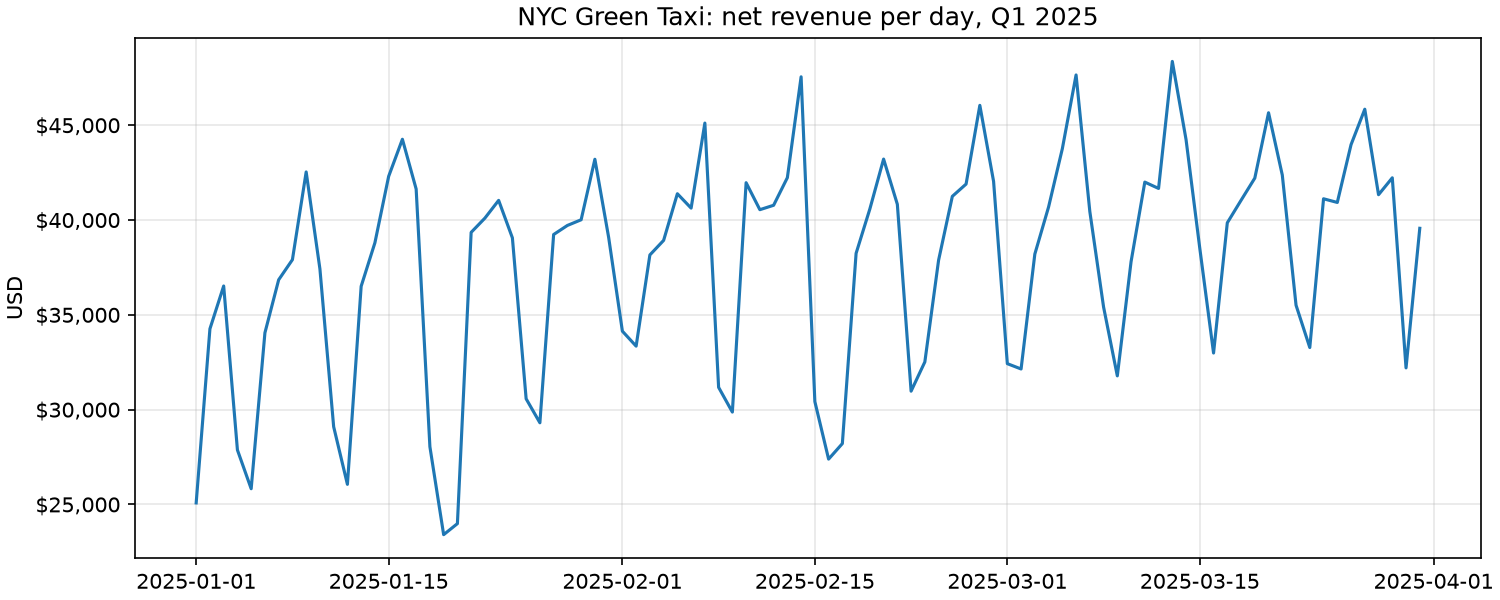
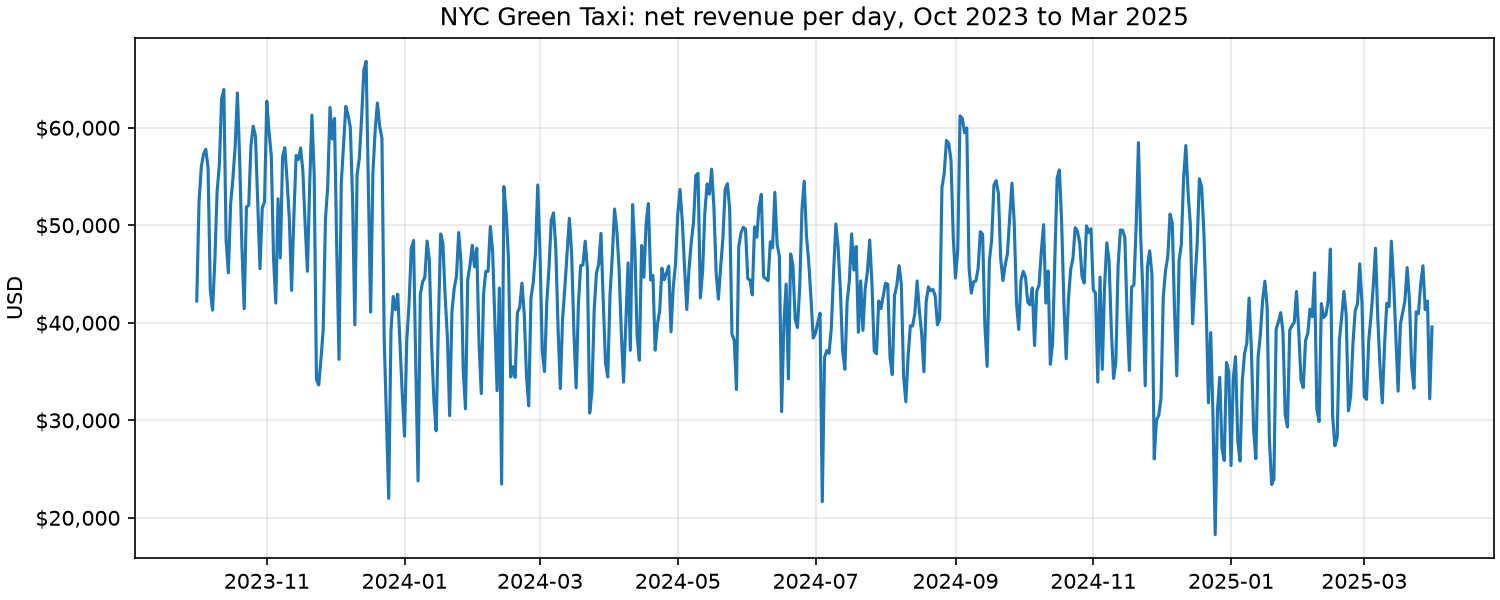
Lead the README with the congestion pricing findings
Question, answer, chart and the before/after table at the top, with
the seasonal baseline and its limits. Course answers move to course/.
PORTFOLIO.md lists what must change before the repo can go public.

diff --git a/README.md b/README.md
@@ -1,12 +1,44 @@
-# NYC Green Taxi: daily revenue pipeline
+# NYC Green Taxi: did congestion pricing change trips and revenue?
 
 [![CI](https://github.com/sean-mas/mle-data-pipeline-project/actions/workflows/ci.yml/badge.svg)](https://github.com/sean-mas/mle-data-pipeline-project/actions/workflows/ci.yml)
 
-An **ELT pipeline**, orchestrated with **Prefect**, that downloads the NYC Green Taxi trip records for January to March 2025, loads them unchanged into Postgres, and uses dbt to calculate revenue per day. It's the Spiced/neuefische data pipeline project; the original brief is in [course/project-brief.md](course/project-brief.md).
+An **ELT pipeline**, orchestrated with **Prefect**, that downloads 18 months of NYC Green Taxi trip records (October 2023 to March 2025), loads them unchanged into Postgres, and uses **dbt** to calculate revenue per day and answer one question about it.
 
-**Result:** 146,486 trip records → 146,475 in the period → **90 days**, net revenue **$3,395,290.56** (gross $3,401,753.17, refunds −$6,462.61). Every step is tested, and running the pipeline twice gives the same numbers.
+It started as the final project of the Spiced Academy (neuefische) data pipeline course, which asked for daily revenue for January to March 2025 ([brief](course/project-brief.md)), and was then extended to answer a real question.
 
-![Net revenue per day](assets/daily_revenue.png)
+## Findings
+
+**Question:** On 5 January 2025, New York started congestion pricing: taxi passengers pay $0.75 per trip into Manhattan below 60th Street. Did it change Green Taxi trips and revenue?
+
+**Answer: no sign that it did.** After 5 January, weekday trips fell 3.6% and fare revenue per day fell 10.6%. But over the same dates one year earlier, with no fee, they fell even more: −10.5% and −17.3%. The drop is the usual winter dip after the holidays. Revenue per trip moved just as it did the year before (−7.3% against −7.6%). About 1 in 12 weekday trips (8.3%) paid the fee.
+
+![Weekday trips and fare revenue, winter 2024/25 with congestion pricing against winter 2023/24 without](assets/congestion_pricing.png)
+
+Weekdays (Monday to Friday). "Before" is 1 October 2024 to 4 January 2025, "after" is 5 January to 31 March 2025. The last column splits the winter before on 5 January 2024 in the same way.
+
+| Weekdays | Before | After | Change | Change a year earlier, no fee |
+|---|---:|---:|---:|---:|
+| Trips per day | 1,834 | 1,768 | −3.6% | −10.5% |
+| Fare revenue per day (fare + extras + tips) | $40,022 | $35,767 | −10.6% | −17.3% |
+| Net revenue per day (`total_amount`) | $44,481 | $40,706 | −8.5% | −16.7% |
+| Fare revenue per trip | $21.82 | $20.23 | −7.3% | −7.6% |
+| Share of trips charged the fee | 0% | 8.3% | | 0% |
+
+Weekends show the same pattern: trips −12.6% against −14.4% a year earlier, and 9.2% of trips paid the fee.
+
+**How to read it**
+
+- **Why compare with the year before?** Taxi demand always drops after the holidays. A plain before/after comparison would blame the fee for that dip. Splitting the winter before on the same date shows how big the normal dip is, so the fee's effect is the *difference* between the two changes. (Analysts call this a difference-in-differences.)
+- **Why weekdays apart from weekends?** They have different trip patterns, and the before and after periods don't hold the same mix of them.
+- **Why two revenue measures?** `total_amount` includes taxes, tolls and surcharges that are passed on to the city, the state and the MTA, now including the $0.75 fee itself. `fare_revenue` (fare + extras + tips) is what the driver and the taxi company keep, so the fee can't inflate it.
+
+**Limits**
+
+- Two winters are a small sample, and other things changed between them. Green Taxi weekday trips were already 17% lower than a year earlier *before* the fee, because the fleet keeps shrinking. The weather differs, and holidays fall on different weekdays. So the smaller dip in 2024/25 can't be credited to the fee either.
+- Green Taxis can't pick up street hails in Manhattan below West 110th and East 96th Street, so most of their trips never enter the zone. A small effect was the likely outcome.
+- This covers Green Taxis only. It says nothing about yellow cabs or ride-hailing apps.
+
+The numbers come from `marts.fct_congestion_pricing_impact` ([SQL](dbt/models/marts/fct_congestion_pricing_impact.sql)). Every run writes them to `data/processed/congestion_pricing_comparison.csv` and redraws the chart.
 
 ## How it works
 
@@ -17,22 +49,23 @@ flowchart LR
         E["Extract<br/>extract.py"] --> L["Load<br/>load.py"] --> T["Transform<br/>dbt build"] --> R["Report<br/>report.py"]
     end
     TLC(["NYC TLC<br/>Parquet files"]) --> E
-    E -.-> RAW[/"data/raw/<br/>3 files, never edited"/]
+    E -.-> RAW[/"data/raw/<br/>18 files, never edited"/]
     L -.-> PG[("Postgres<br/>raw.green_trips")]
     T -.-> STG[("staging.stg_green_trips<br/>view")]
-    T -.-> MART[("marts.fct_daily_revenue<br/>table, 90 rows")]
+    T -.-> MART[("marts.fct_daily_revenue<br/>table, 548 rows")]
+    T -.-> IMPACT[("marts.fct_congestion_pricing_impact<br/>table, 8 rows")]
     R -.-> OUT[/"data/processed/<br/>CSV · Parquet · PNG · JSON"/]
 ```
 
 | Step | What happens | Where |
 |---|---|---|
 | 1. Extract | Downloads one Parquet file per month into `data/raw/`. Files already there are reused; an interrupted download is never mistaken for a finished one. | [extract.py](src/green_taxi/extract.py) |
-| 2. Load | Copies each file unchanged into `raw.green_trips`, plus `source_file` and `loaded_at`. One transaction per file deletes that file's old rows first, so re-runs never duplicate data. | [load.py](src/green_taxi/load.py) |
-| 3. Transform | dbt builds a staging view (renamed, typed, Q1 2025 only, refunds flagged) and the daily revenue table, then runs 15 data tests. A failing test stops the pipeline. | [dbt/models/](dbt/models/) |
-| 4. Report | Counts rows at every stage and writes the result as CSV, Parquet, a chart and `quality_report.json`. | [report.py](src/green_taxi/report.py) |
-| Orchestrate | The same functions as Prefect tasks: parallel downloads with 3 retries, every dbt model and test as its own task, and the result table plus a row-count report in the Prefect UI. A `monthly` deployment runs on a schedule or from a Run button. | [flow.py](src/green_taxi/flow.py) |
+| 2. Load | Copies each file unchanged into `raw.green_trips`, plus `source_file` and `loaded_at`. The table has a fixed column list, so files with and without the 2025 fee column fit into it. One transaction per file deletes that file's old rows first, so re-runs never duplicate data. | [load.py](src/green_taxi/load.py) |
+| 3. Transform | dbt builds a staging view (renamed, typed, only the chosen months, refunds flagged), the daily revenue table and the congestion pricing comparison, then runs 34 data tests. A failing test stops the pipeline. The months on the command line set the period dbt keeps. | [dbt/](dbt/) |
+| 4. Report | Counts rows at every stage and writes the results as CSV, Parquet, two charts and `quality_report.json`. | [report.py](src/green_taxi/report.py) |
+| Orchestrate | The same functions as Prefect tasks: parallel downloads with 3 retries, every dbt model and test as its own task, and the daily table, the congestion pricing comparison and a row-count report in the Prefect UI. A `monthly` deployment runs on a schedule or from a Run button. | [flow.py](src/green_taxi/flow.py) |
 
-![Prefect flow run](assets/prefect_flow_run.jpg)
+![Prefect flow run (an earlier three-month run)](assets/prefect_flow_run.jpg)
 
 ### Why ELT and not ETL
 
@@ -41,16 +74,16 @@ flowchart LR
 
 This pipeline uses ELT because:
 - The raw copy in Postgres stays untouched, so a cleaning rule can change and be re-run in SQL without downloading again.
-- dbt splits the SQL into layers (raw → staging → mart) and tests each one. This is how analytics teams usually work.
+- dbt splits the SQL into layers (raw → staging → marts) and tests each one. This is how analytics teams usually work.
 - Every row can be traced back to its source file.
 
 ## What the data needed
 
-Findings from [notebooks/01_explore_green_taxi.ipynb](notebooks/01_explore_green_taxi.ipynb), and the rule each one led to:
+Findings from exploring January to March 2025 in [notebooks/01_explore_green_taxi.ipynb](notebooks/01_explore_green_taxi.ipynb), and the rule each one led to:
 
 | Finding | Rule |
 |---|---|
-| 11 trips are dated outside Jan 1 to Mar 31, 2025 (some in December 2024, some on April 1) | Keep only pickups in the period, so the result has exactly 90 days. Without this rule there would be 94 |
+| 11 trips are dated outside Jan 1 to Mar 31, 2025 (some in December 2024, some on April 1) | Keep only pickups in the period, so the result has exactly one row per day |
 | 62 more trips sit in a neighbouring month's file (e.g. a Jan 31 trip in the February file) | Group by pickup date across all files, not per file |
 | 478 rows have a negative `total_amount` (refunds, disputes, voids), −$6,462.61 in total | Count them apart from trips: `gross_revenue`, `refunds`, `net_revenue` |
 | 254 trips have a `total_amount` of $0 | Count them as trips with no revenue |
@@ -58,39 +91,60 @@ Findings from [notebooks/01_explore_green_taxi.ipynb](notebooks/01_explore_green
 | 2 trips are over $500 (max $642.14) | Keep them, and list them in the quality report |
 | No duplicate rows | No deduplication step |
 
-**Revenue definition:** `net_revenue` for a day is the sum of `total_amount` (fare, extras, taxes, tip, tolls and surcharges) for trips picked up that day, refunds included.
+Extending the window to 18 months for the congestion pricing question added these:
+
+| Finding | Rule |
+|---|---|
+| Files before 2025 have no `cbd_congestion_fee` column; all other columns and types match across the 18 files | Create the raw table from a fixed column list. A missing column loads as NULL; an unknown column stops the load, so a new TLC column is a decision, not a surprise |
+| The fee appears only from 5 January 2025: 11,986 trips at $0.75, one refund at −$0.75 | A dbt test fails if any earlier trip has the fee |
+| The amount columns don't always add up to `total_amount` (about 14% of rows, most of them a $1.00 gap in one vendor's MTA tax) | Build `fare_revenue` from its own three columns instead of subtracting taxes from the total |
+| Over 18 months: 17 trips dated outside the period, 3,235 refund rows (−$43,198.42), 53 trips over $500 (max $3,527.30) | Same rules as above; the large trips are listed in `quality_report.json` |
+
+**Revenue definitions:** for each pickup day, `net_revenue` is the sum of `total_amount` (fare, extras, taxes, tip, tolls and surcharges), and `fare_revenue` is the sum of fare + extras + tip. Both include refunds.
 
 ## Results
 
-| Month | Days | Trips | Net revenue |
-|---|---:|---:|---:|
-| January 2025 | 31 | 48,136 | $1,092,994.80 |
-| February 2025 | 28 | 46,479 | $1,067,222.12 |
-| March 2025 | 31 | 51,382 | $1,235,073.64 |
-| **Total** | **90** | **145,997** | **$3,395,290.56** |
+1,001,121 trip records → 1,001,104 in the period → **548 days**, net revenue **$24,157,147.48** (gross $24,200,345.90, refunds −$43,198.42), fare revenue **$21,714,266.83**. Every step is tested, and running the pipeline twice gives the same numbers.
 
-- Average day: $37,725. Busiest day: Thursday, March 13 ($48,362). Quietest: Sunday, January 19 ($23,401).
-- Weekdays earn more than weekends: Thursdays average $43,454, Sundays $30,005.
+| Quarter | Days | Trips | Net revenue | Fare revenue |
+|---|---:|---:|---:|---:|
+| Q4 2023 | 92 | 193,830 | $4,741,915.10 | $4,286,582.36 |
+| Q1 2024 | 91 | 167,027 | $3,795,657.09 | $3,407,243.78 |
+| Q2 2024 | 91 | 171,594 | $4,179,453.14 | $3,762,259.36 |
+| Q3 2024 | 92 | 157,524 | $4,080,442.06 | $3,691,650.57 |
+| Q4 2024 | 92 | 161,886 | $3,964,117.01 | $3,571,513.12 |
+| Q1 2025 | 90 | 146,008 | $3,395,563.08 | $2,995,017.64 |
+| **Total** | **548** | **997,869** | **$24,157,147.48** | **$21,714,266.83** |
+
+Q1 2025 is $272.52 (11 trips) higher than the course result of $3,395,290.56: those January trips sit in the December 2024 file, which the course run didn't load.
+
+![Net revenue per day](assets/daily_revenue.png)
 
 ## Project structure
 
 ```
 ├── data/raw/                 # staged downloads (not in git)
-├── data/processed/           # daily revenue outputs (not in git)
-├── dbt/                      # transform layer: staging and mart models, tests
+├── data/processed/           # outputs (not in git)
+├── dbt/
+│   ├── models/staging/       # stg_green_trips: renamed, typed, filtered to the period
+│   ├── models/marts/         # fct_daily_revenue, fct_congestion_pricing_impact
+│   ├── seeds/                # congestion_pricing_windows.csv: the two winters compared
+│   └── tests/                # reconciliation and fee checks
 ├── notebooks/                # exploration only, not part of the pipeline
 ├── src/green_taxi/
-│   ├── config.py             # months, source URL, paths, database settings
+│   ├── config.py             # default months, source URL, paths, database settings
+│   ├── months.py             # --months parsing and the period dbt keeps
 │   ├── extract.py            # step 1
 │   ├── load.py               # step 2
 │   ├── transform.py          # step 3 (runs dbt)
 │   ├── report.py             # step 4
 │   ├── pipeline.py           # plain CLI: green-taxi download | load | transform | report | run
 │   └── flow.py               # Prefect flow and deployment
-├── tests/                    # unit tests (extract) and integration tests (load, end to end)
+├── tests/                    # unit tests (extract, months, CLI) and integration tests (load, end to end)
 ├── docker-compose.yaml       # Postgres 17 on port 5433
-├── course/                   # original project brief
-└── solution/                 # the course's ETL reference solution, untouched
+├── course/                   # original project brief and the course answers
+├── solution/                 # the course's ETL reference solution, untouched
+└── PORTFOLIO.md              # what to change before making the repo public
 ```
 
 ## How to run
@@ -103,10 +157,16 @@ cp .env.example .env
 docker compose up -d --wait
 ```
 
-Run the plain pipeline (no Prefect):
+Run the plain pipeline (no Prefect). Without `--months` it processes October 2023 to March 2025:
 
 ```bash
 uv run green-taxi run
+```
+
+Pick other months as a list (`2025-01,2025-02`) or a range. The months must follow each other without gaps:
+
+```bash
+uv run green-taxi run --months 2024-10..2025-03
 ```
 
 Or one step at a time: `green-taxi download`, `load`, `transform`, `report`. Outputs land in `data/processed/`.
@@ -117,7 +177,7 @@ Run it with Prefect. Start the server in its own terminal and keep it open (UI a
 uv run prefect server start
 ```
 
-Then run the flow once:
+Then run the flow once (it takes the same `--months` option):
 
 ```bash
 uv run python -m green_taxi.flow
@@ -140,31 +200,7 @@ uv run pytest
 
 ## Tests and checks
 
-- **Unit tests** ([tests/test_extract.py](tests/test_extract.py)): URL building, month validation, reusing staged files and failed downloads, without any network calls.
-- **Integration tests** ([tests/test_load.py](tests/test_load.py), [tests/test_pipeline_e2e.py](tests/test_pipeline_e2e.py)): six hand-made trips (a refund, a $0 trip, a missing payment type, one from 2024) go through load → dbt → report against a separate `green_taxi_test` database, and the exact daily rows are checked.
-- **dbt tests** (run on every pipeline run): one row per day, no missing values, no day outside the period, and mart totals that match staging to the cent.
+- **Unit tests** ([tests/test_extract.py](tests/test_extract.py), [tests/test_months.py](tests/test_months.py), [tests/test_cli.py](tests/test_cli.py)): URL building, reusing staged files and failed downloads without any network calls; month lists, ranges and the period; months with a gap stop a run before anything is downloaded.
+- **Integration tests** ([tests/test_load.py](tests/test_load.py), [tests/test_pipeline_e2e.py](tests/test_pipeline_e2e.py)): a file without the fee column can load before one with it, and an unknown column is rejected. Nine hand-made trips (a refund, a $0 trip, a missing payment type, one outside the period, trips with and without the fee on both sides of 5 January) go through load → dbt → report against a separate `green_taxi_test` database, and the exact daily rows and weekday comparison are checked.
+- **dbt tests** (run on every pipeline run): one row per day, no missing values, no day outside the period, mart totals that match staging to the cent (net and fare revenue), every compared day counted exactly once, and no congestion fee before 5 January 2025.
 - **CI** ([.github/workflows/ci.yml](.github/workflows/ci.yml)): ruff lint and format checks plus all tests against Postgres on every pull request.
-
-## Answers to the project questions
-
-> **Draft notes, not final answers.** Sean: rewrite these in your own words before submitting.
-
-**1. What are the steps you took to complete the project?**
-- Set up the repo as an installable package, with Postgres in Docker Compose and one `.env` for Python, dbt and Prefect.
-- Wrote the download script (step 1), then explored one quarter of data in a notebook to decide the cleaning rules.
-- Loaded the raw files unchanged into Postgres, then built the dbt staging and daily revenue models with tests.
-- Added a report step that reconciles row counts, then wrapped everything in a Prefect flow with retries, artifacts and a schedule.
-- Delivered it as a series of small pull requests, each with tests.
-
-**2. What challenges did you face?**
-- Deciding what "revenue" means: refunds appear as negative rows, so I report gross, refunds and net separately.
-- Trips dated outside their month: 11 fall outside the quarter entirely, and the reference solution's approach would report 94 days instead of 90.
-- Making re-runs safe: the course loader replaces the table, which keeps only the last month loaded. Delete-and-insert per file fixed it.
-- Tooling: a dbt dependency failed to install (GitHub timeout), so I pinned the version the course uses. Prefect didn't show my own log lines until I set their log level.
-
-**3. What would you do differently if you had more time?**
-- Run Prefect like production: server and worker in Docker, a work pool, and `flow.deploy()` instead of `serve()`.
-- Make loads incremental, so only new months are fetched, and extend the pipeline to more months and years.
-- Add a taxi-zone lookup and payment-type seed to break revenue down by borough and payment method.
-- Publish dbt docs (a lineage graph) and add a small dashboard.
-- Use Postgres `COPY` for faster loads at larger volumes, and set up a Prefect alert for failed runs.

diff --git a/PORTFOLIO.md b/PORTFOLIO.md
@@ -1,0 +1,35 @@
+# Before making this repo public
+
+The repo is private. Making it public is Sean's decision; nothing here has been done yet. This lists what must change first, and why.
+
+## Must change
+
+1. **Remove `solution/`.** It's the course's reference solution, not this project's work, and it comes from a private course repo (`neuefische/mle-data-pipeline-project`). Then clean up what points at it:
+   - `pyproject.toml`: drop `extend-exclude = ["solution"]` under `[tool.ruff]` and `"solution/src"` from `root` under `[tool.ty.environment]`.
+   - `README.md`: the "Why ELT and not ETL" bullet that mentions `solution/`, and its line in "Project structure".
+2. **Remove `course/`.** The brief is course material from the same private repo, and `project-answers.md` is a draft for the course submission. Then:
+   - `README.md`: the sentence linking to `course/project-brief.md` (keep a plain mention of the course, without the link) and the `course/` line in "Project structure".
+   - `.github/pull_request_template.md` is the course's submission checklist. Delete it, or replace it with a short template of your own.
+3. **Keep `LICENSE` as it is.** It's the MIT license from the course template, copyright neuefische GmbH. MIT allows reusing and publishing the code only if that copyright line and the permission text stay. You may add your own line under it for your changes (for example `Copyright (c) 2026 Sean Kress`), but don't remove or replace neuefische's line.
+4. **Start the public repo without the old history.** Deleting files in a new commit doesn't remove them from git history: anyone can open an old commit and read `solution/` and `course/`. The history also holds the template's commits by five course authors, with their email addresses, from a repo that is private.
+
+   | Option | What it means | |
+   |---|---|---|
+   | (a) Flip this repo to public after deleting the folders | Publishes the private course material through the history | ✗ |
+   | (b) New public repo from a clean copy of the final files | One first commit; this private repo keeps the pull request history | ✓ my pick |
+   | (c) Rewrite this repo's history with `git filter-repo` | Keeps your commits; changes every commit ID and leaves the old pull requests pointing at commits that no longer exist | |
+
+   My pick is (b): it's the only option that can't leak anything, and it takes minutes. Link the new repo from your CV, and keep this one private as the full record.
+
+## Should check
+
+- **The course's rules.** Ask Spiced/neuefische whether students may publish project work built on their template. The template repo being private suggests they care.
+- **Your email address.** Commits use `sean.kress.pm@gmail.com`. In a public repo anyone can read it. To hide it, commit with your GitHub `noreply` address (GitHub settings → Emails).
+- **Links after the move.** The CI badge in `README.md` points at `sean-mas/mle-data-pipeline-project`. Update it if the public repo gets a new name, for example `nyc-green-taxi-congestion-pricing`.
+- **The Prefect screenshot** (`assets/prefect_flow_run.jpg`) shows an earlier three-month run. Optionally retake it from an 18-month run, with the congestion pricing artifact visible.
+
+## Already fine
+
+- **No secrets in git.** `.env` is ignored; `.env.example` only holds the local Docker defaults (`postgres`/`postgres`), which protect nothing outside your laptop.
+- **No personal paths** in the notebook outputs.
+- **Data** isn't in git (`data/raw/` and `data/processed/` are ignored), and the NYC TLC trip records are public anyway.

diff --git a/course/project-answers.md b/course/project-answers.md
@@ -1,0 +1,25 @@
+# Answers to the project questions
+
+Written for the course submission, about the January to March 2025 version of the pipeline. Moved here from the README, which now presents the project as a portfolio piece.
+
+> **Draft notes, not final answers.** Sean: rewrite these in your own words before submitting.
+
+**1. What are the steps you took to complete the project?**
+- Set up the repo as an installable package, with Postgres in Docker Compose and one `.env` for Python, dbt and Prefect.
+- Wrote the download script (step 1), then explored one quarter of data in a notebook to decide the cleaning rules.
+- Loaded the raw files unchanged into Postgres, then built the dbt staging and daily revenue models with tests.
+- Added a report step that reconciles row counts, then wrapped everything in a Prefect flow with retries, artifacts and a schedule.
+- Delivered it as a series of small pull requests, each with tests.
+
+**2. What challenges did you face?**
+- Deciding what "revenue" means: refunds appear as negative rows, so I report gross, refunds and net separately.
+- Trips dated outside their month: 11 fall outside the quarter entirely, and the reference solution's approach would report 94 days instead of 90.
+- Making re-runs safe: the course loader replaces the table, which keeps only the last month loaded. Delete-and-insert per file fixed it.
+- Tooling: a dbt dependency failed to install (GitHub timeout), so I pinned the version the course uses. Prefect didn't show my own log lines until I set their log level.
+
+**3. What would you do differently if you had more time?**
+- Run Prefect like production: server and worker in Docker, a work pool, and `flow.deploy()` instead of `serve()`.
+- Make loads incremental, so only new months are fetched, and extend the pipeline to more months and years.
+- Add a taxi-zone lookup and payment-type seed to break revenue down by borough and payment method.
+- Publish dbt docs (a lineage graph) and add a small dashboard.
+- Use Postgres `COPY` for faster loads at larger volumes, and set up a Prefect alert for failed runs.
